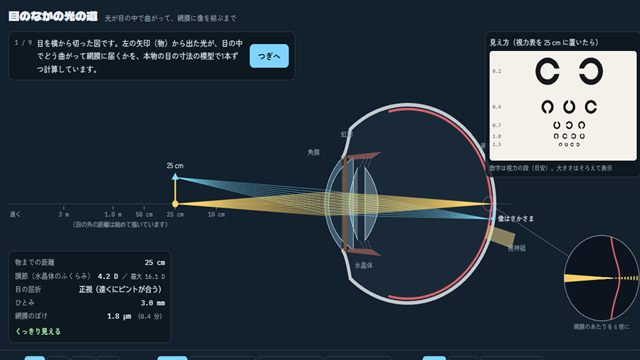
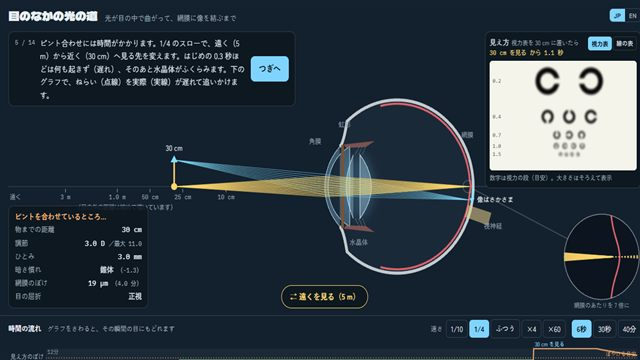
目のなかの光の道: サムネイルを撮り直した（遠く→近くでピントが遅れて合う途中、時間のグラフつき）

diff --git a/_dev/tools/thumb.html b/_dev/tools/thumb.html
@@ -22,7 +22,7 @@ const SETUP = {
   // 変化球のしくみ（3D・ボールの後ろからカーブ。比べる道すじと空気の流れの断面つき）
   'pitch-physics': async w => { await wait(1500); w.__piph.tour(7); w.__piph.cam('ball'); w.__piph.time(0.3); await wait(800); },
   // 目のなかの光の道（近くの物を見て水晶体がふくらみ、上の端からの光も見せる）
-  'eye-optics': async w => { await wait(800); w.__eyop.set({ age: 8, d: 250, showTop: true }); w.__eyop.simRun(1.5); await wait(300); },
+  'eye-optics': async w => { await wait(800); const e = w.__eyop; e.tour(4); e.S.sched = null; e.set({ showTop: true }); e.simRun(3.6); e.set({ d: 300 }); e.simRun(0.85); await wait(300); },   // 遠く→近くでピントが遅れて合うところ（時間のグラフつき）
   // 声帯のしくみ（画面ができたら、いちばん映える場面にする）
   'vocal-folds': async w => { await wait(1500); },
   // 細菌にとりつくウイルス（画面ができたら、いちばん映える場面にする）
